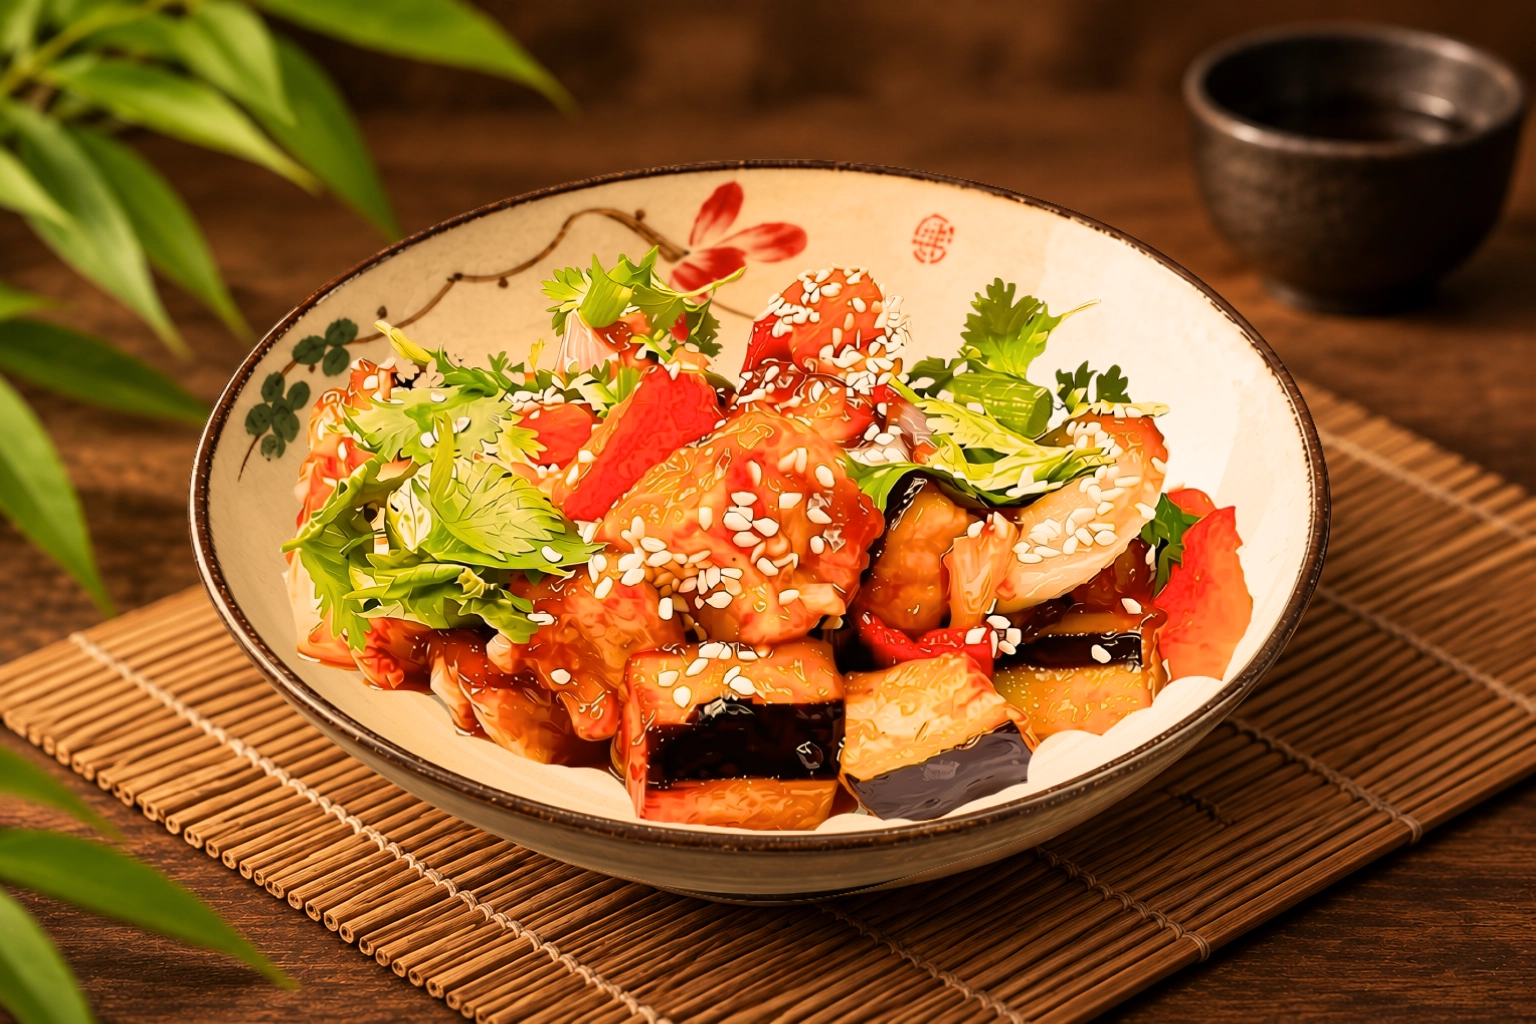
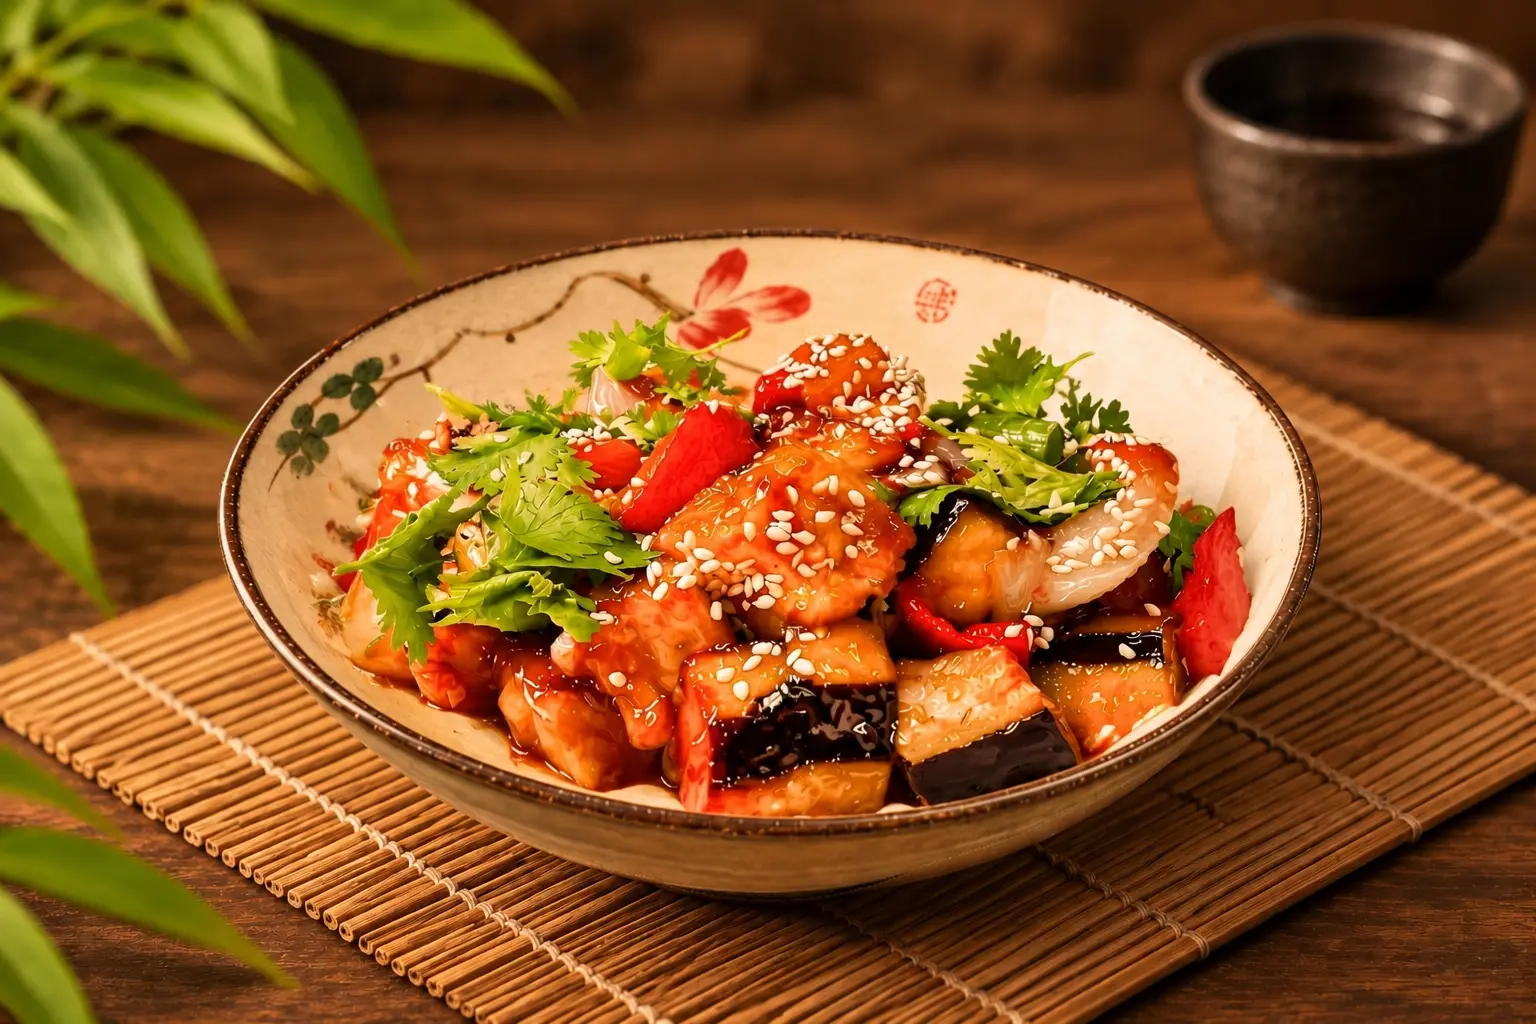
photo and site

diff --git a/index.html b/index.html
@@ -348,8 +348,8 @@
 
                 <div class="contacts__item">
                     <span class="contacts__label">ТЕЛЕФОН</span>
-                    <a href="tel:+79859974048">
-                        +7 985 997 40 48
+                    <a href="tel:+79267574714">
+                        +7 (926) 757-47-14
                     </a>
                 </div>
 
@@ -549,9 +549,9 @@
 
                 <p>Москва, ул. Нарвская, вл. 22</p>
 
-                <a href="tel:+79859974048">
-                    +7 985 997 40 48
-                </a>
+                <a href="tel:+79267574714">
+                        +7 (926) 757-47-14
+                    </a>
 
                 <a
                     href="https://yandex.com/maps/213/moscow/?from=mapframe&ll=37.504240%2C55.836418&mode=whatshere&source=mapframe&utm_medium=mapframe&utm_source=maps&whatshere%5Bpoint%5D=37.504273%2C55.836444&whatshere%5Bzoom%5D=21&z=21"

diff --git a/menu.html b/menu.html
@@ -150,9 +150,9 @@
 
                 <p>Москва, ул. Нарвская, вл. 22</p>
 
-                <a href="tel:+79859974048">
-                    +7 985 997 40 48
-                </a>
+               <a href="tel:+79267574714">
+                        +7 (926) 757-47-14
+                    </a>
 
                 <a
                     href="https://yandex.com/maps/213/moscow/?from=mapframe&ll=37.504240%2C55.836418&mode=whatshere&source=mapframe&utm_medium=mapframe&utm_source=maps&whatshere%5Bpoint%5D=37.504273%2C55.836444&whatshere%5Bzoom%5D=21&z=21"
